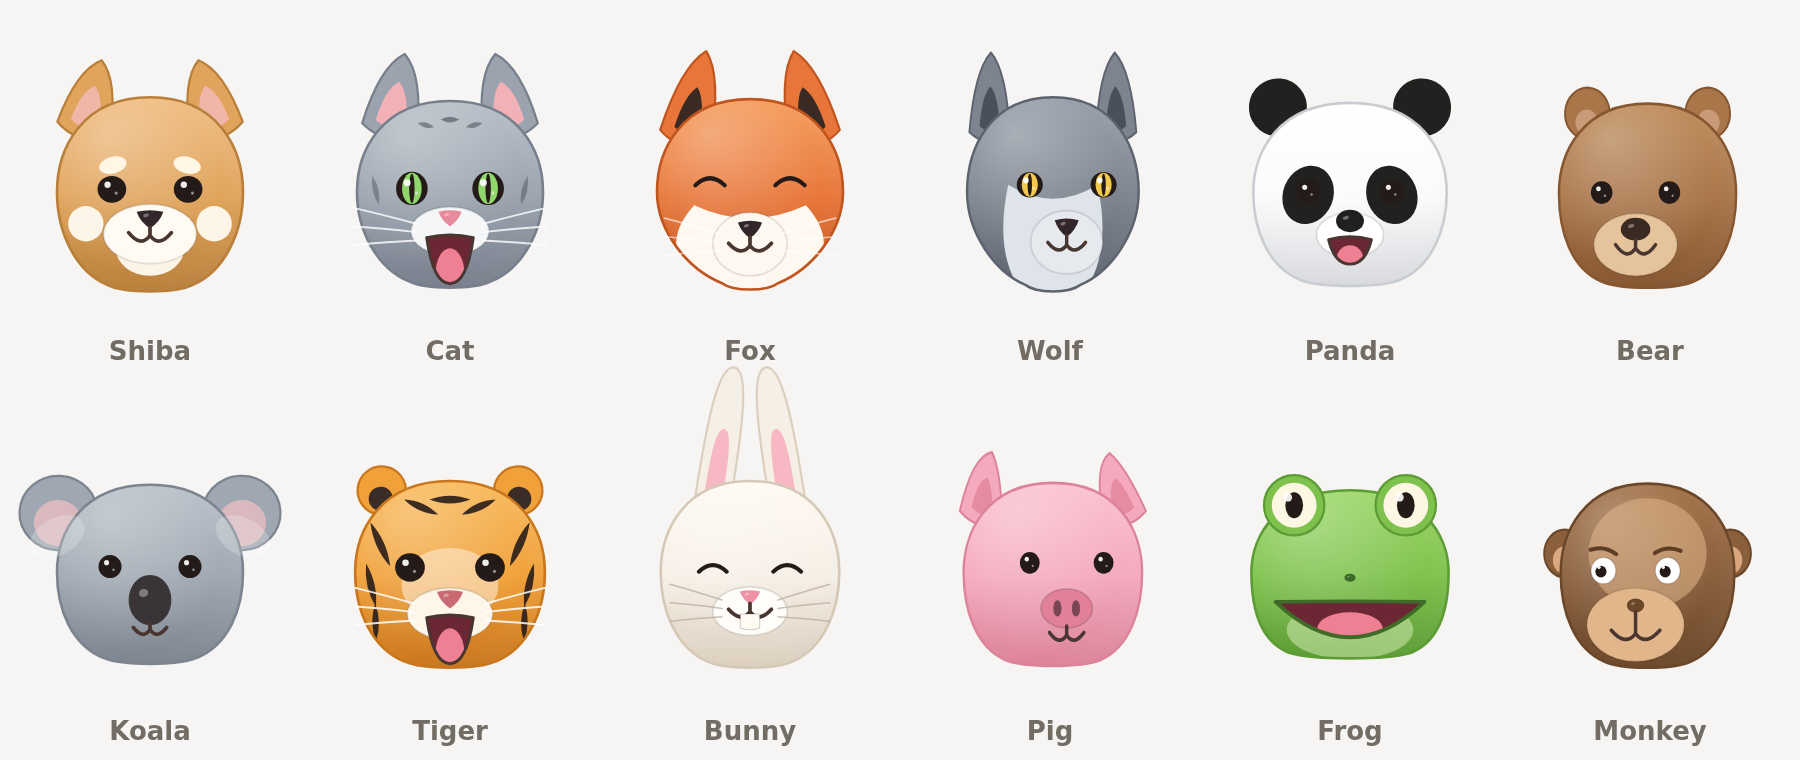
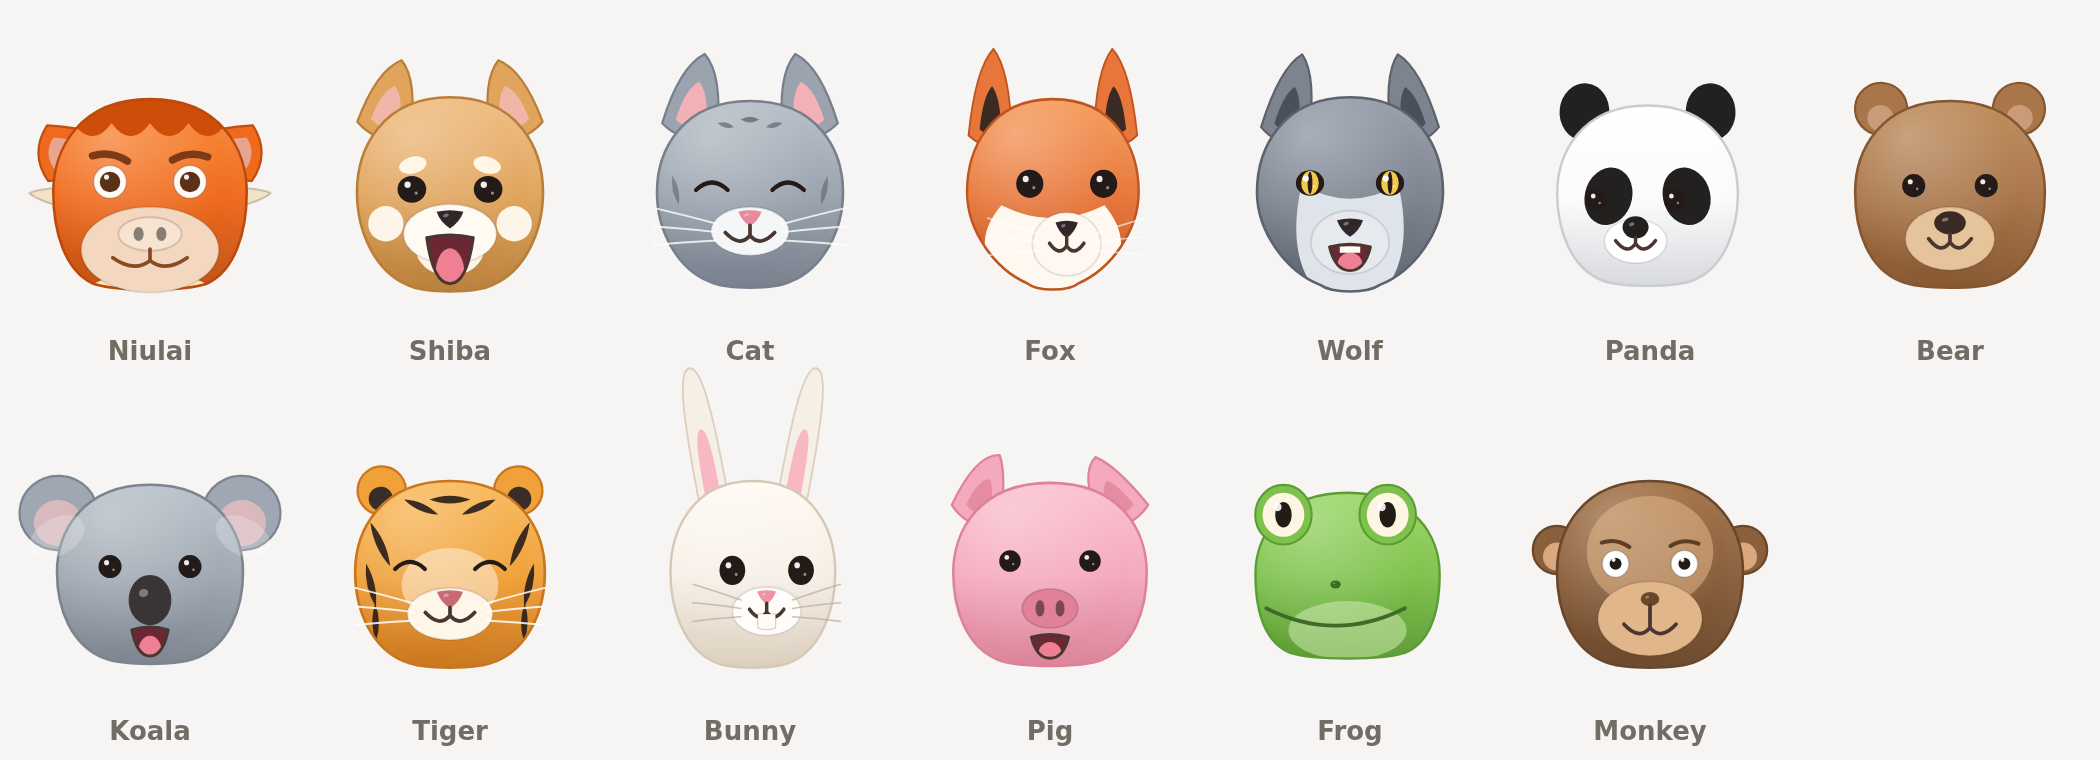
Add Niulai, the orange calf, and make it the default
Niulai is drawn from the reference: ginger fur under a shaggy scalloped
forelock, cow ears out to the sides, stubby pale horns behind them, thick
dark brows over large brown eyes, a big pale muzzle with cow nostrils,
and a cream chin. It leads the picker and is now the default animal,
since the project is named after it — the toolbar icon follows.

Two small additions to the shared renderer support it:

- A `behind` hook for parts that sit behind the head but in front of the
  ears, which is where the horns belong.
- An optional `iris` multiplier on eyes, so an animal can have a large
  iris rather than the default cartoon dot.

Also fixes two mouths that opened past their own chin, leaving the
tongue looking detached at a wide-open jaw: the koala's, and Niulai's
before its jaw travel was tightened onto the muzzle.

diff --git a/src/core/animals.js b/src/core/animals.js
@@ -174,8 +174,9 @@
       ctx.lineWidth = 0.008;
       ctx.stroke();
       var px = x + p.yaw * r * 0.34;
-      fillEllipse(ctx, px, y + p.pitch * ry * 0.2, r * 0.46, Math.min(ry * 0.92, r * 0.46), 0, spec.eye);
-      fillEllipse(ctx, px - r * 0.16, y - ry * 0.26, r * 0.14, r * 0.14 * open, 0, 'rgba(255,255,255,0.92)');
+      var iris = r * (E.iris || 0.46);
+      fillEllipse(ctx, px, y + p.pitch * ry * 0.2, iris, Math.min(ry * 0.92, iris), 0, spec.eye);
+      fillEllipse(ctx, px - iris * 0.34, y - ry * 0.3, r * 0.16, r * 0.16 * open, 0, 'rgba(255,255,255,0.92)');
       return;
     }
 
@@ -421,6 +422,7 @@
 
     drawEar(ctx, spec, -1, p);
     drawEar(ctx, spec, 1, p);
+    if (spec.behind) spec.behind(ctx, spec, p);
     drawHead(ctx, spec, p);
 
     // Facial features shift with head turn to fake parallax.
@@ -487,6 +489,63 @@
   /* --------------------------------------------------------------- animals */
 
   var SPECS = [
+    base({
+      id: 'niulai', name: 'Niulai', emoji: '\ud83d\udc2e',
+      fur: '#ef6a1c', furLight: '#fb8f40', furShade: '#c14e10',
+      inner: '#e8a48c', muzzleColor: '#f3d7bf', noseColor: '#f8e3d1',
+      mouthColor: '#8a4a24', outline: '#bd4a0d',
+      eye: '#5a3218', eyeWhite: '#fffaf4',
+      head: { w: 1.04, h: 1.02, jaw: 0.88, chin: 0.60 },
+      // Cow ears sit high and stick straight out to the sides.
+      ear: { type: 'triangle', w: 0.30, h: 0.40, x: 0.50, y: -0.22, tilt: -1.55, inner: 0.56, swing: 0.7 },
+      eyes: { x: 0.215, y: -0.065, r: 0.086, aspect: 1, white: true, iris: 0.64 },
+      brows: { w: 0.19, h: 0.04, weight: 0.04, color: '#7d3a16' },
+      muzzle: { w: 0.74, h: 0.46, y: 0.30 },
+      nose: { w: 0.17, h: 0.09, y: 0.215, type: 'snout' },
+      mouth: { y: 0.37, w: 0.20, depth: 0.055, maxOpen: 0.12 },
+      behind: function (ctx) {
+        // Stubby pale horns, angled out from behind the ears.
+        for (var side = -1; side <= 1; side += 2) {
+          ctx.save();
+          ctx.translate(side * 0.45, 0.02);
+          ctx.rotate(side * 1.45);
+          ctx.beginPath();
+          ctx.moveTo(-0.055, 0.01);
+          ctx.quadraticCurveTo(-0.035, -0.15, 0, -0.20);
+          ctx.quadraticCurveTo(0.035, -0.15, 0.055, 0.01);
+          ctx.closePath();
+          ctx.fillStyle = '#f1e3c6';
+          ctx.fill();
+          ctx.strokeStyle = 'rgba(90,50,24,0.25)';
+          ctx.lineWidth = 0.011;
+          ctx.stroke();
+          ctx.restore();
+        }
+      },
+      markings: function (ctx) {
+        // Shaggy forelock across the crown, scalloped along its lower edge.
+        var scallops = 6;
+        var left = -0.62;
+        var right = 0.62;
+        var step = (right - left) / scallops;
+        var hem = -0.38;
+        ctx.beginPath();
+        ctx.moveTo(left, -0.62);
+        ctx.lineTo(right, -0.62);
+        ctx.lineTo(right, hem);
+        for (var i = 0; i < scallops; i++) {
+          var xa = right - i * step;
+          var xb = xa - step;
+          ctx.quadraticCurveTo((xa + xb) / 2, hem + 0.14, xb, hem);
+        }
+        ctx.closePath();
+        ctx.fillStyle = '#cd4d09';
+        ctx.fill();
+        // Pale chin and chest, as on the reference.
+        fillEllipse(ctx, 0, 0.60, 0.40, 0.18, 0, '#f7e8bd');
+      }
+    }),
+
     base({
       id: 'shiba', name: 'Shiba', emoji: '🐕',
       fur: '#e0a45c', furLight: '#f0c087', furShade: '#b97f39',
@@ -612,7 +671,7 @@
       eyes: { x: 0.215, y: -0.04, r: 0.062, aspect: 1, pupil: 'round' },
       muzzle: null,
       nose: { w: 0.115, h: 0.135, y: 0.14, type: 'round' },
-      mouth: { y: 0.31, w: 0.09, depth: 0.045, maxOpen: 0.18 },
+      mouth: { y: 0.30, w: 0.09, depth: 0.045, maxOpen: 0.12 },
       faceExtras: function (ctx) {
         // Fluffy ear tufts poking past the round ears.
         ctx.fillStyle = 'rgba(255,255,255,0.22)';

diff --git a/src/common/defaults.js b/src/common/defaults.js
@@ -15,7 +15,7 @@
     /** Master switch. When false the camera is passed through untouched. */
     enabled: true,
     /** Id of the animal in the animal registry. */
-    animal: 'shiba',
+    animal: 'niulai',
     /** Head width as a multiple of the detected face width. */
     size: 1.62,
     /** Offset from the detected face centre, in head widths. */

diff --git a/README.md b/README.md
@@ -12,9 +12,9 @@ frames on a canvas, and hands the meeting the filtered stream instead.
 
 ## What it does
 
-- **12 animals** — shiba, cat, fox, wolf, panda, bear, koala, tiger, bunny,
-  pig, frog and monkey — drawn as vectors, so they stay sharp at any camera
-  resolution.
+- **13 animals** — Niulai the orange calf, plus shiba, cat, fox, wolf, panda,
+  bear, koala, tiger, bunny, pig, frog and monkey — drawn as vectors, so they
+  stay sharp at any camera resolution.
 - **Real face tracking** with MediaPipe Face Landmarker: the head follows your
   position, size and tilt, turns with you, and its mouth, eyes and brows follow
   your own.
@@ -101,7 +101,7 @@ Three details are load-bearing:
 npm install          # Playwright, for the dev tools only
 npm run test:pose    # head-pose geometry checks, no camera needed
 npm run test:smoke   # loads the extension in Chromium with a fake camera
-npm run icons        # regenerates icons/*.png from the shiba renderer
+npm run icons        # regenerates icons/*.png from the Niulai renderer
 ```
 
 `tools/smoke-test.mjs` is the useful one: it loads the unpacked extension,
